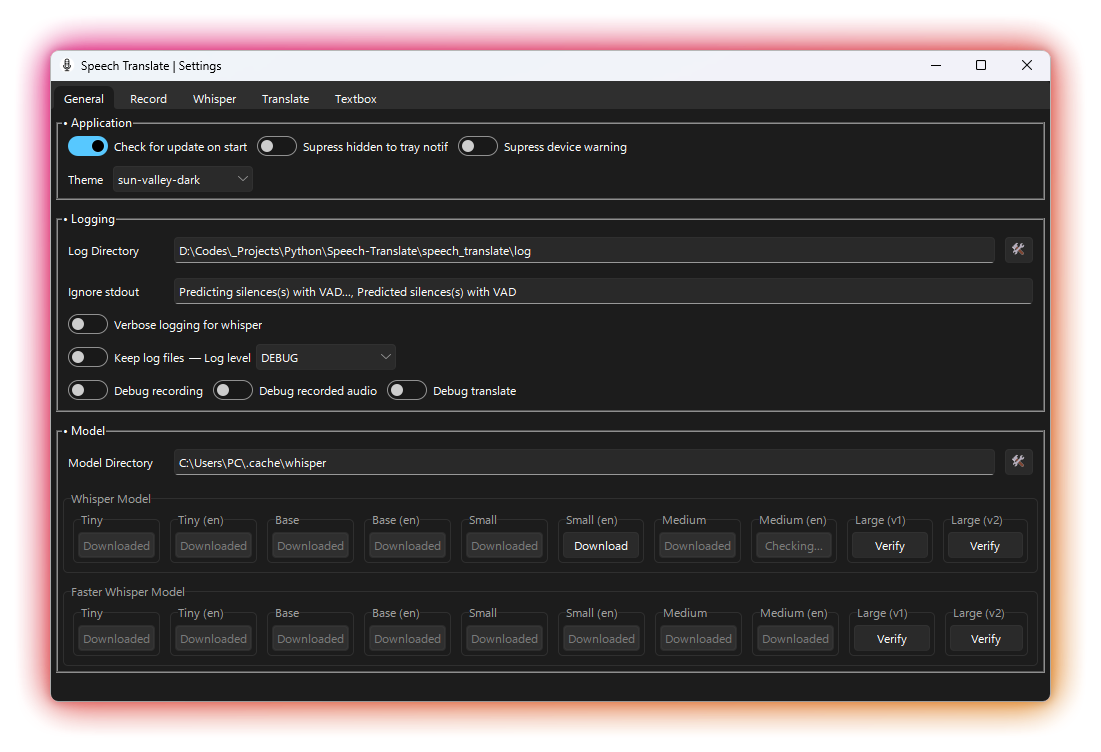
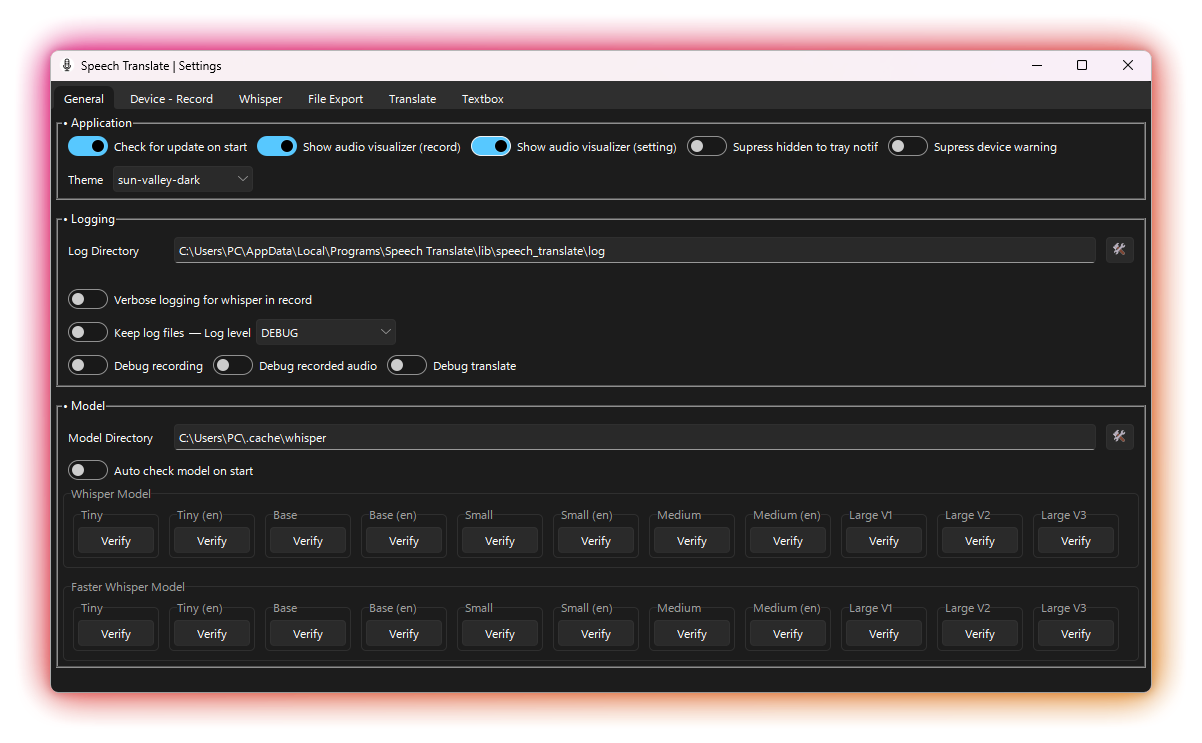
update preview

Changed region(s): [[0.0309, 0.0619, 0.9882, 0.9287], [0.772, 0.681, 0.8338, 0.7429]]

diff --git a/README.md b/README.md
@@ -44,7 +44,8 @@ Speech Translate aims to expand whisper ability by combining it with some transl
   <p align="center">
     <img src="preview/2.png" width="700" alt="Setting - General">
     <img src="preview/3.png" width="700" alt="Setting - Record">
-    <img src="preview/4.png" width="700" alt="Setting - Transcribe">
+    <img src="preview/4.png" width="700" alt="Setting - Whisper">
+    <img src="preview/4-5.png" width="700" alt="Setting - File Export">
     <img src="preview/5.png" width="700" alt="Setting - Translate">
     <img src="preview/6.png" width="700" alt="Setting - Textbox">
   </p>
